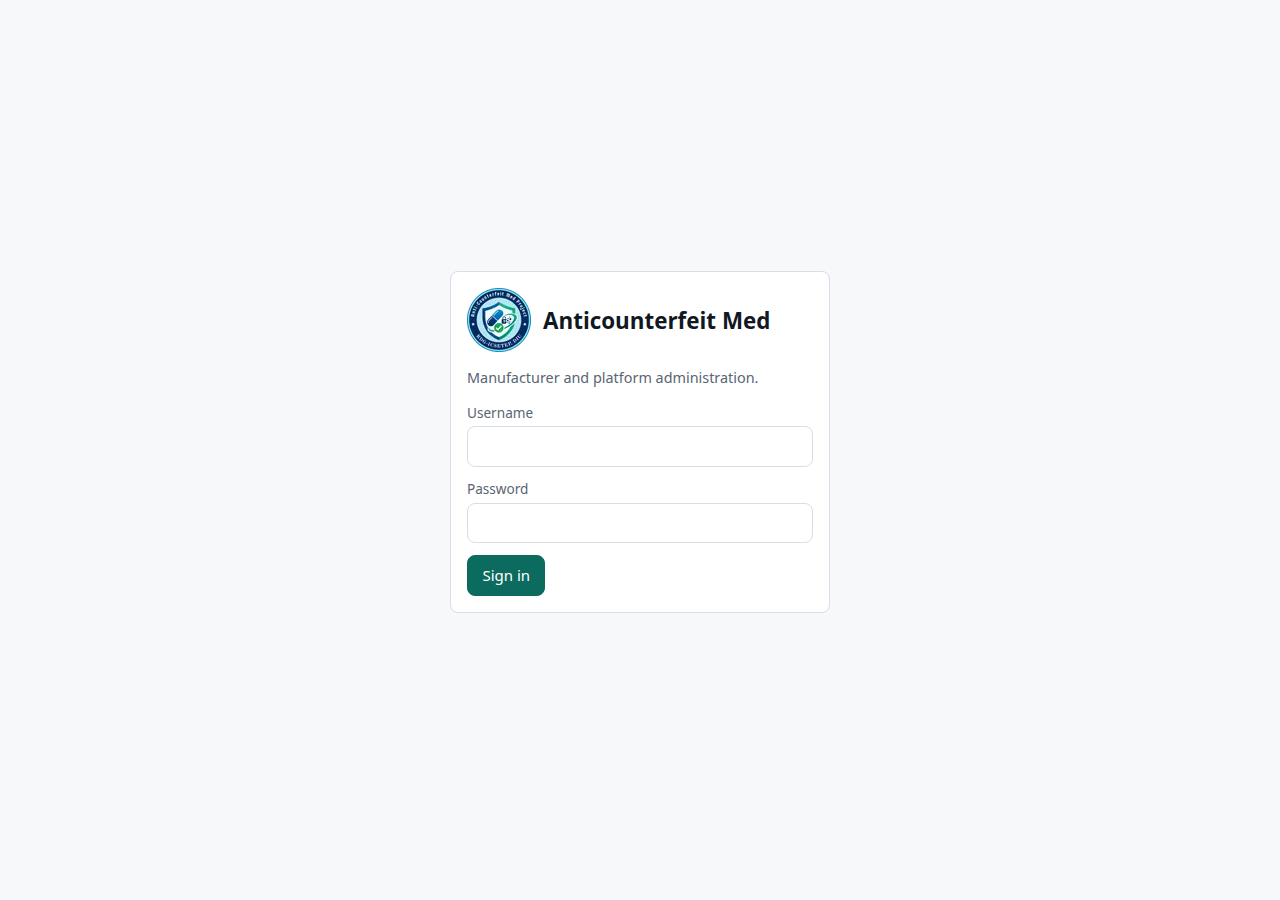
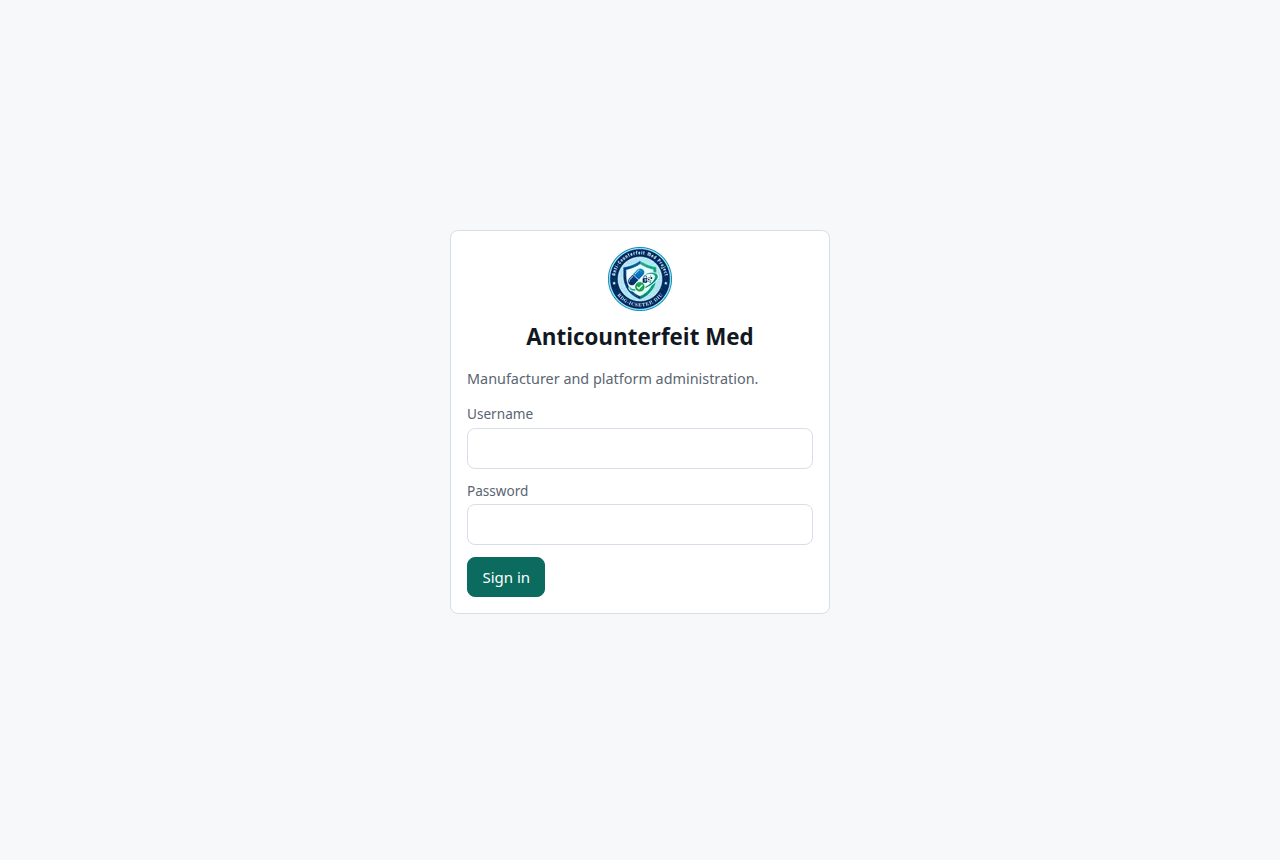
Stack the mark above the name instead of beside it
Side by side, the mark took width from the text next to it. That cost most in
the portal sidebar, which is 230px wide and has to fit an organization name:
"Demo Pharmaceuticals Ltd" was sharing the row with a 40px badge. Stacked, the
name gets the full width and the sidebar reads cleanly.

Applied to the three places that present the project rather than a toolbar: the
landing page header, where the headline now runs full width; the portal sidebar;
and the portal sign-in card.

The landing page's inline style block changed, so its CSP hash was regenerated
and the nginx configuration updated to match.

The consumer app's app bar is left as it is. It is a toolbar rather than a brand
block, and stacking there would push the title down and take vertical space from
the camera preview, which is the opposite of the problem being fixed.

Changed region(s): [[0.3438, 0.2721, 0.625, 0.6953]]

diff --git a/staff-web/app/globals.css b/staff-web/app/globals.css
@@ -51,17 +51,18 @@ h2 { font-size: 1.1rem; margin: 1.5rem 0 0.5rem; }
   width: 230px; flex-shrink: 0; background: var(--surface);
   border-right: 1px solid var(--border); padding: 1.25rem 0;
 }
+/* Stacked, so the full width is available to the organization name rather
+   than being shared with the mark. */
 .brand {
   padding: 0 1.25rem 1rem; border-bottom: 1px solid var(--border);
-  display: flex; align-items: center; gap: 0.7rem;
+  text-align: center;
 }
-.brand img { flex-shrink: 0; }
-.brand strong { display: block; font-size: 0.95rem; line-height: 1.2; }
-.brand .muted { font-size: 0.82rem; }
+.brand img { display: block; margin: 0 auto 0.5rem; }
+.brand strong { display: block; font-size: 0.95rem; line-height: 1.25; }
+.brand .muted { display: block; font-size: 0.82rem; line-height: 1.3; }
 
-.auth-brand {
-  display: flex; align-items: center; gap: 0.75rem; margin-bottom: 0.25rem;
-}
+.auth-brand { text-align: center; margin-bottom: 0.5rem; }
+.auth-brand img { display: block; margin: 0 auto 0.6rem; }
 .auth-brand h1 { margin: 0; }
 .nav { padding: 0.75rem 0.5rem; display: flex; flex-direction: column; gap: 2px; }
 .nav a {

diff --git a/landing/index.html b/landing/index.html
@@ -60,8 +60,8 @@
   }
   .wrap { max-width: 34rem; margin: 0 auto; padding: 2rem 1rem 3rem; }
   header { border-bottom: 1px solid var(--border); padding-bottom: 1.25rem; margin-bottom: 1.5rem; }
-  .brand { display: flex; align-items: center; gap: .75rem; margin-bottom: .75rem; }
-  .brand img { width: 52px; height: 52px; flex-shrink: 0; }
+  .brand { margin-bottom: .9rem; }
+  .brand img { width: 56px; height: 56px; display: block; margin-bottom: .45rem; }
   .mark { font-size: .78rem; letter-spacing: .09em; text-transform: uppercase; color: var(--muted); margin: 0; }
   h1 { font-size: 1.5rem; line-height: 1.25; margin: 0 0 .35rem; }
   .bn { font-size: 1.15rem; color: var(--muted); margin: 0; }
@@ -114,7 +114,7 @@
 
   <header>
     <div class="brand">
-      <img src="mark.png" width="52" height="52"
+      <img src="mark.png" width="56" height="56"
            alt="Anticounterfeit Med" decoding="async">
       <p class="mark">Anticounterfeit Med</p>
     </div>

diff --git a/staff-web/app/(portal)/layout.tsx b/staff-web/app/(portal)/layout.tsx
@@ -34,17 +34,9 @@ function Shell({ children }: { children: React.ReactNode }) {
     <div className="shell">
       <aside className="sidebar">
         <div className="brand">
-          <Image
-            src="/mark.png"
-            alt=""
-            width={40}
-            height={40}
-            priority
-          />
-          <div>
-            <strong>Anticounterfeit Med</strong>
-            <span className="muted">{membership.organization.name}</span>
-          </div>
+          <Image src="/mark.png" alt="" width={52} height={52} priority />
+          <strong>Anticounterfeit Med</strong>
+          <span className="muted">{membership.organization.name}</span>
         </div>
         <nav className="nav">
           <NavLink href="/" label="Overview" />
